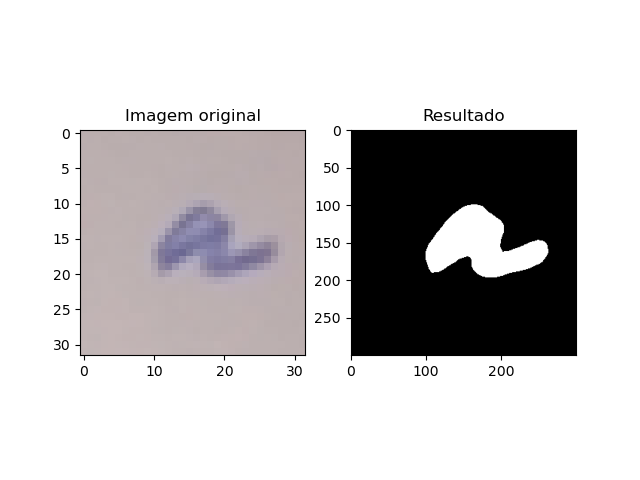
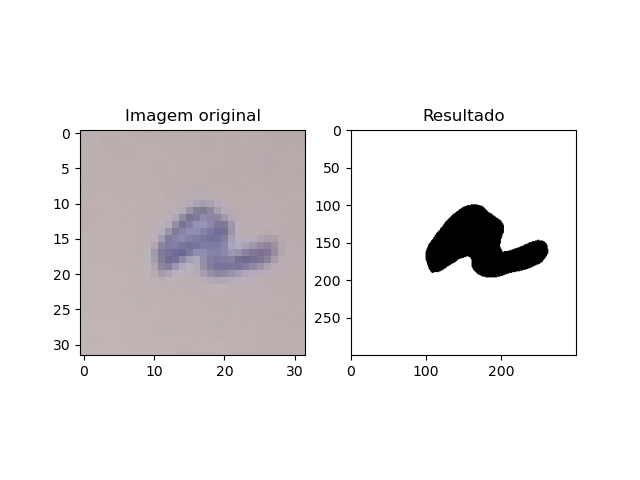
Adicionado filters a kmeans.py e gerado imagens

Changed region(s): [[0.5312, 0.25, 0.9062, 0.75]]

diff --git a/kmeans.py b/kmeans.py
@@ -10,14 +10,14 @@ Referencia:
     https://scikit-learn.org/stable/modules/clustering.html#k-means
 """
 
-from skimage import io, transform, color, exposure
+from skimage import io, transform, color, exposure, filters
 import numpy as np
 import matplotlib.pyplot as plt
 from sklearn.cluster import KMeans
 import os
 
 
-# Segmentação por K-Means
+## Segmentação por K-Means
 def kMeans(img):
     w, h, d = img.shape
     image_array = np.reshape(img, (w * h, d))      # Transformando em "vetor" - necessário
@@ -27,7 +27,7 @@ def kMeans(img):
     seg1 = (seg1*255).astype('uint8')
     return seg1
     
-# Teste manual
+## Teste manual
 def ajusteManual(im, baixo, alto):
     im2 = im.copy()
     im2[im2<=baixo] = 0
@@ -36,8 +36,70 @@ def ajusteManual(im, baixo, alto):
     im2[im2>baixo] = 255*(im2[im2>baixo] - baixo)/(alto - baixo)
     return im2.astype('uint8')
 
-# ## Para testar apenas uma imagem:
-# path = '/home/victor/01_235.png'
+
+## Filters
+def filters_application(image):
+    original = image.copy()
+    image = color.rgb2gray(image)            # dtype('float64')
+    image = (image * 255).astype('uint8')    # Converter para uint8
+    
+    # Resize da imagem
+    image_res= transform.resize(image, (300,300))
+
+    # Filtros com resize
+    edge_roberts_res = filters.roberts(image_res)
+    edge_sobel_res = filters.sobel(image_res)
+    edge_scharr_res = filters.scharr(image_res)
+    edge_prewitt_res = filters.prewitt(image_res)
+    edge_sato_true_res = filters.sato(image_res, sigmas=range(1,6,1), black_ridges=True)
+      
+    ##Resultado dos filtros com resize
+    fig, axes = plt.subplots(ncols=3, nrows=2)
+    axes[0][0].imshow(original)
+    axes[0][0].set_title('Original')
+    axes[0][1].imshow(edge_roberts_res, cmap='gray')
+    axes[0][1].set_title('Roberts')
+    axes[0][2].imshow(edge_sobel_res, cmap='gray')
+    axes[0][2].set_title('Sobel')
+    axes[1][0].imshow(edge_scharr_res, cmap='gray')
+    axes[1][0].set_title('Scharr')
+    axes[1][1].imshow(edge_prewitt_res, cmap='gray')
+    axes[1][1].set_title('Prewitt')
+    axes[1][2].imshow(edge_sato_true_res, cmap='gray')
+    axes[1][2].set_title('Sato')
+    
+
+    
+    # plt.subplot(321)
+    # plt.imshow(original, cmap='gray')
+    # plt.set_title('Original')
+    # plt.subplot(322)
+    # plt.imshow(edge_roberts_res, cmap='gray')
+    # plt.set_title('Roberts')
+    # plt.subplot(323)
+    # plt.imshow(edge_sobel_res, cmap='gray')
+    # plt.set_title('Sobel')
+    # plt.subplot(324)
+    # plt.set_title('Sobel')
+    # plt.imshow(edge_scharr_res, cmap='gray')
+    # plt.subplot(325)
+    # plt.imshow(edge_prewitt_res, cmap='gray')
+    # plt.set_title('Prewitt')
+    # plt.subplot(326)
+    # plt.imshow(edge_sato_true_res, cmap='gray')
+    # plt.set_title('Sato')
+
+    # Ajusta o plot pra não sobrepor imagens
+    plt.tight_layout()
+    plt.savefig(maindir +'filter_results/'+ dire)
+    plt.close()
+
+
+
+
+
+# # ## Para testar apenas uma imagem:
+# path = '/media/victor/1f3aa121-0188-42a3-b7c4-b271c3c0afca/2020 - 1/Processamento de imagens/repositorio_github/letters/example_dataset/01_256.png'
 # img = io.imread(path)
 
 # # Resize - Ajuda a melhorar a resposta ao mudar o tamanho de 32x32 => 300x300
@@ -45,7 +107,14 @@ def ajusteManual(im, baixo, alto):
 
 # img2 = kMeans(img)
 # plt.figure()
-# plt.imshow(img2, cmap='gray')
+# plt.imshow(img, cmap='gray')
+
+# plt.subplot(121)     
+# plt.imshow(img)
+# plt.title("Imagem original")
+# plt.subplot(122)
+# plt.imshow(img2, cmap="gray")
+# plt.title("Resultado")
 
 
 ## Teste automatizado:
@@ -53,7 +122,7 @@ maindir = '/media/victor/1f3aa121-0188-42a3-b7c4-b271c3c0afca/2020 - 1/Processam
 files = os.listdir(maindir)
 
 ## Escolha do método a ser utilizado
-choose = 'kmeans'
+choose = 'filters'
 for dire in files:
     if dire.endswith('.png'):
         print(maindir + dire)
@@ -88,4 +157,7 @@ for dire in files:
             plt.imshow(im4, cmap="gray")
             plt.title("Resultado")
             plt.savefig(maindir +'ajusteManual_based_results/'+ dire)
-            # io.imsave(maindir +'results/' + dire, im4.astype('uint8'))            
+            # io.imsave(maindir +'results/' + dire, im4.astype('uint8'))
+        elif (choose == 'filters'):
+            im = io.imread(maindir + dire)
+            filters_application(im)              

diff --git a/filters.py b/filters.py
@@ -20,6 +20,7 @@ image = (image * 255).astype('uint8')    # Converter para uint8
 
 # Resize da imagem
 image_res= transform.resize(image, (300,300))
+
 # image_res = (image_res * 255).astype('uint8')    # Converter para uint8
 
 # Filtros sem resize
@@ -30,8 +31,8 @@ edge_prewitt = filters.prewitt(image)
 edge_sato_false = filters.sato(image, sigmas=range(1,6,1), black_ridges=False)
 edge_sato_true= filters.sato(image, sigmas=range(1,6,1), black_ridges=True)
 
-# erro - perguntar Pablo
-edge_threshold_otsu = filters.threshold_otsu(image)
+## erro - perguntar Pablo
+# edge_threshold_otsu = filters.threshold_otsu(image)
 
 
 # Filtros com resize
